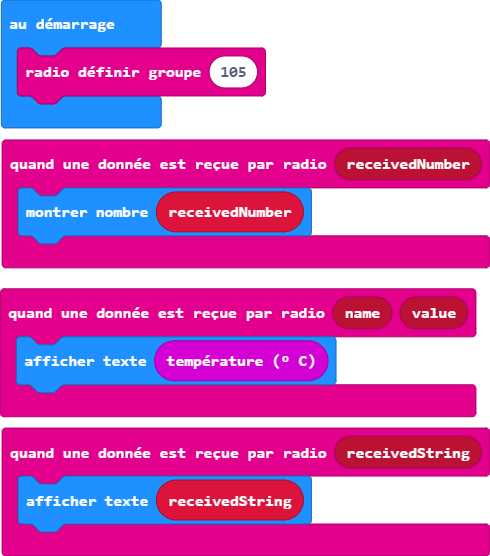
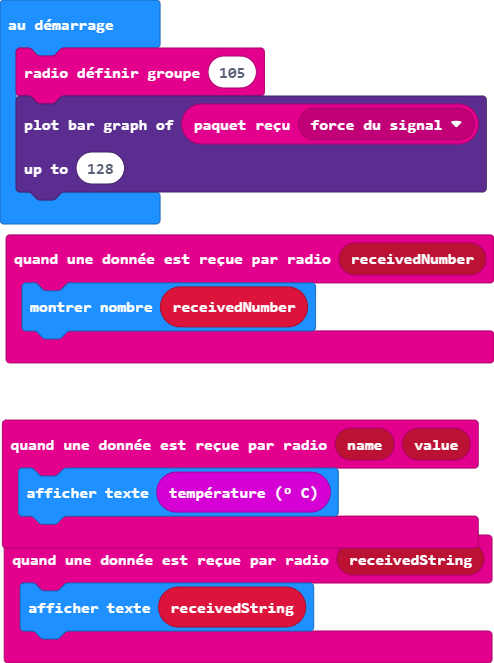
Mise à jour main.blocks, main.ts

diff --git a/main.ts b/main.ts
@@ -8,3 +8,7 @@ radio.onReceivedValue(function (name, value) {
     basic.showString("" + (input.temperature()))
 })
 radio.setGroup(105)
+led.plotBarGraph(
+radio.receivedPacket(RadioPacketProperty.SignalStrength),
+128
+)
